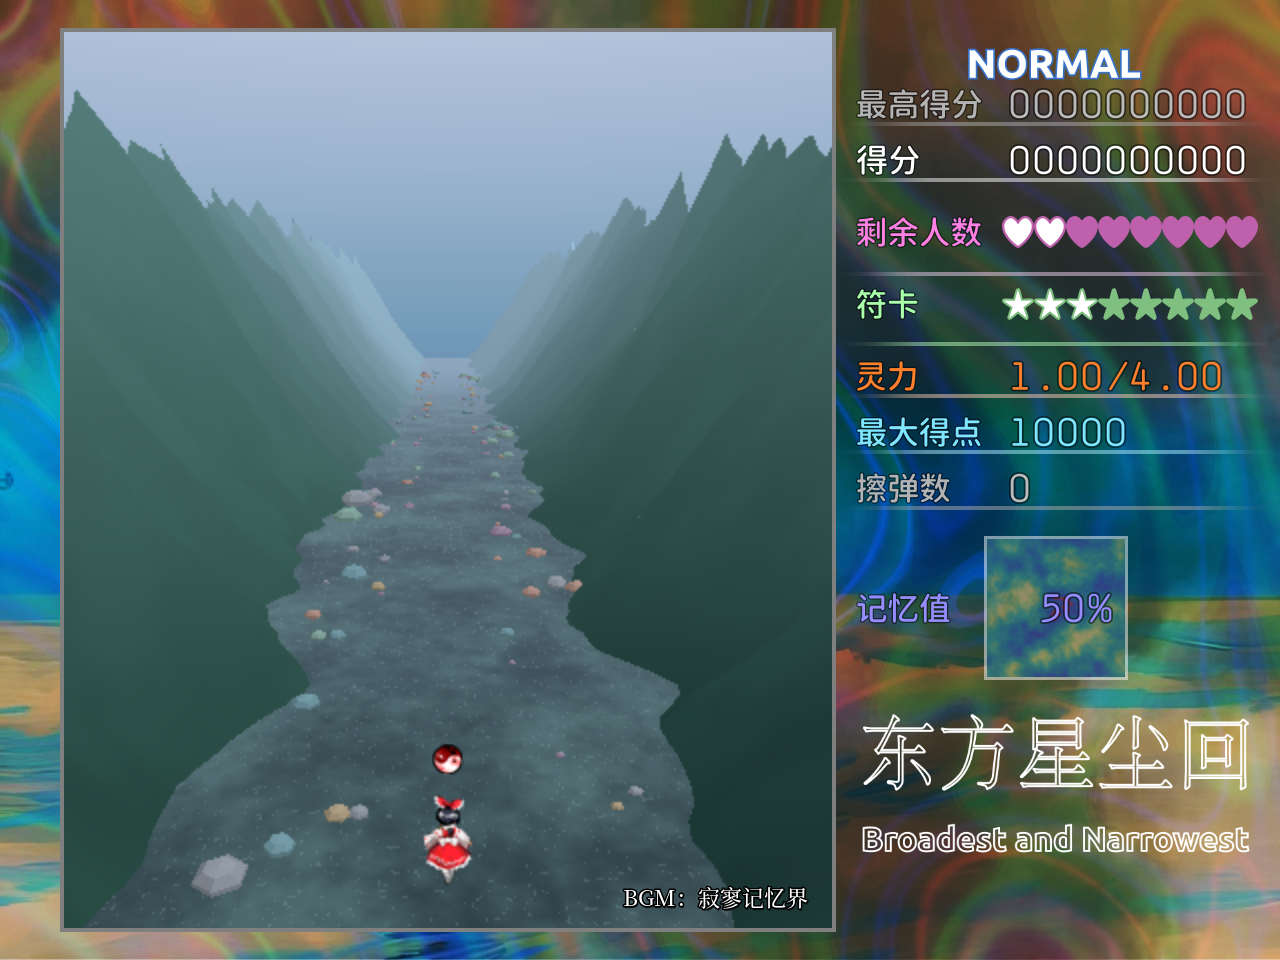
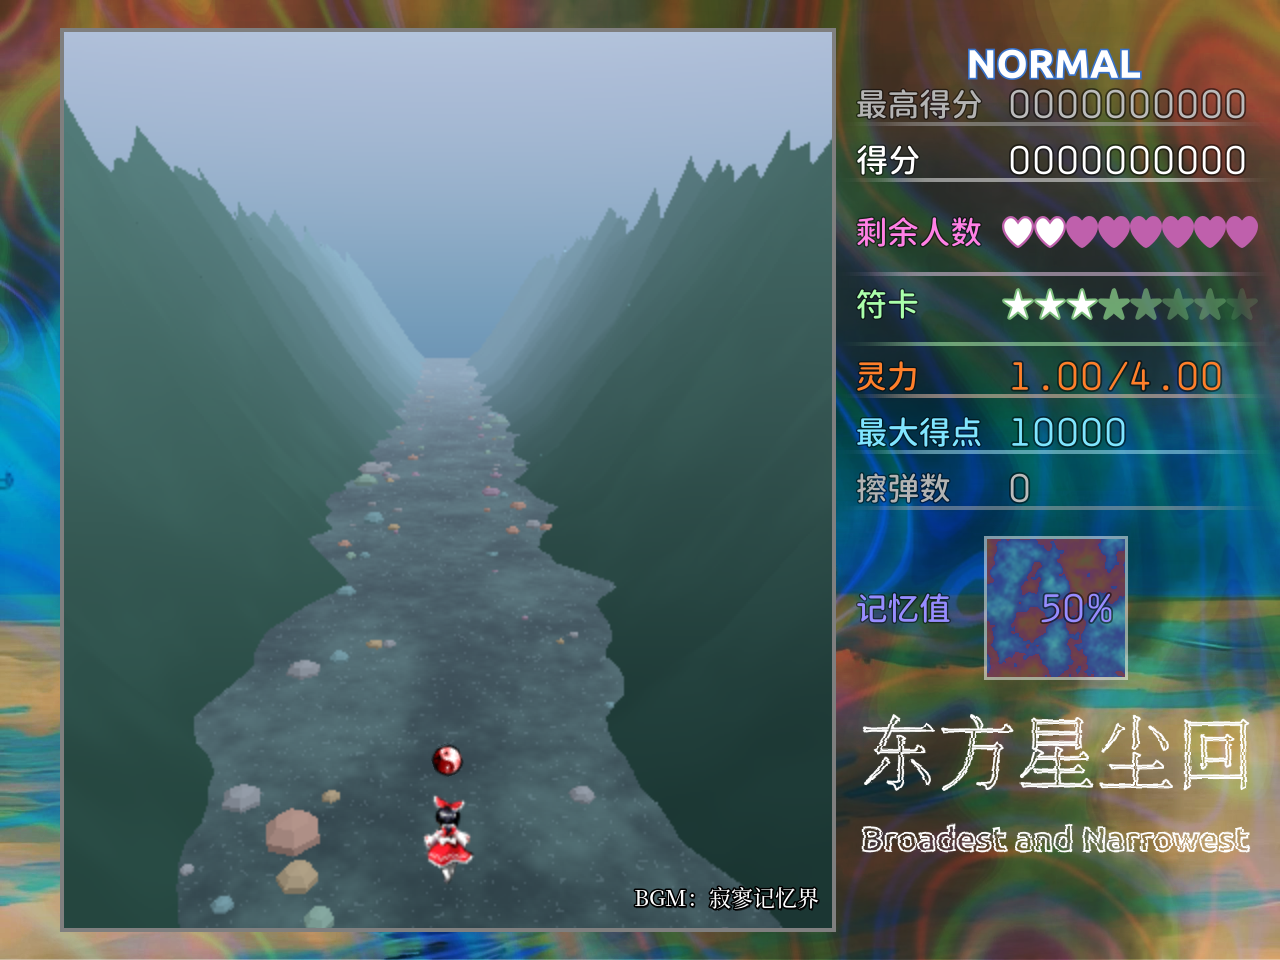
refactor(background): share stage4 distance fog across layers

diff --git a/docs/BEST_PRACTICES_LOG.md b/docs/BEST_PRACTICES_LOG.md
@@ -124,7 +124,7 @@
 - **主菜单残留记忆值**：持久 HUD 的 `Memory` 是嵌套 CanvasLayer，只隐藏外层 GameUI 不会隐藏它；新增 `GameUI.set_hud_visible()` 同时同步 Memory 层，回归测试覆盖。
 - **再次播放录像**：回放结束页重播前设置 `_continuing_replay = true`，避免旧 GameScene `_exit_tree` 把刚启动的 ReplaySession stop 掉；同时 `_exit_tree` 不再在继续回放时 `PracticeSession.finish()`，否则符卡练习录像会被清空、新场景退回普通 Stage 1。
 - **回放水印渐隐**：REPLAY 标的呼吸 tween 会每帧重写 alpha，HUD 统一淡出/隐藏时先停掉它；回归测试覆盖 `set_hud_alpha(0)` 时标也归零。
-- **Stage4 山谷背景原型**：新增 `stage04_valley_sky.tscn`（无限山谷 + 暗色远山 + SkyDome 微彩天空），Stage04 暂时切到该背景；天空用 unshaded 天穹材质绕开 SubViewport 环境 sky 不生效的问题。按作者反馈移除谷底/森林线、天空改竖直色带避免接缝；随后移除 FarRidge，改为天空漫射光 + 山壁距离渐隐，让谷道尽头留空；山壁按高度接收冷色天光，避免整片死黑。注意 shader 注释必须用 `//`，误用 `##` 会导致整片山谷编译失败不渲染。山壁宽条纹来自 6 列顶点上的顶点色/法线插值，已把颜色与天光改为屏幕纵向渐变，避免三角面带。谷底加了一整块雾化湿石地面 + MultiMesh 彩色石块，谷宽/镜头也放宽压低；地面 shader 按 TIME 滚动、彩石逐帧向镜头移动并回收，速度与 InfiniteValley 的 forward_speed 对齐；山壁石头先全部改回地面边缘，避免因随机高度悬空；彩石改为拆面的低模岩块并加固定方向面光，另外放大少量贴边巨石。
+- **Stage4 山谷背景原型**：新增 `stage04_valley_sky.tscn`（无限山谷 + 暗色远山 + SkyDome 微彩天空），Stage04 暂时切到该背景；天空用 unshaded 天穹材质绕开 SubViewport 环境 sky 不生效的问题。按作者反馈移除谷底/森林线、天空改竖直色带避免接缝；随后移除 FarRidge，改为天空漫射光 + 山壁距离渐隐，让谷道尽头留空；山壁按高度接收冷色天光，避免整片死黑。注意 shader 注释必须用 `//`，误用 `##` 会导致整片山谷编译失败不渲染。山壁宽条纹来自 6 列顶点上的顶点色/法线插值，已把颜色与天光改为屏幕纵向渐变，避免三角面带。谷底加了一整块雾化湿石地面 + MultiMesh 彩色石块，谷宽/镜头也放宽压低；地面 shader 按 TIME 滚动、彩石逐帧向镜头移动并回收，速度与 InfiniteValley 的 forward_speed 对齐；山壁石头先全部改回地面边缘，避免因随机高度悬空；彩石改为拆面的低模岩块并加固定方向面光，另外放大少量贴边巨石。距离雾抽成 `stage04_fog.gdshaderinc`，地面/山壁/石头共用同一组 `haze_color/haze_start/haze_end`，避免独立 shader 漏雾。
 - **回放水印**：GameUI 从 `front02.png` 的 `(64,416,156,32)` 切出 REPLAY 标，放在场地中心（448,480），仅 `ReplaySession.is_playing()` 时显示；alpha 在 0.10–0.24 间 1.2s 呼吸。
 - **HUD 淡出 freed object**：`set_hud_alpha` 原来先 `as CanvasItem` 再判有效，节点被场景释放时会报 cast freed object；改为先 `is_instance_valid` 并从缓存剔除，再转换。
 - **暂停页字体**：去掉暂停菜单所有 Label 的黑色描边（标题/副标题/选项/确认面板），文字直接压在框内模糊画面上。
